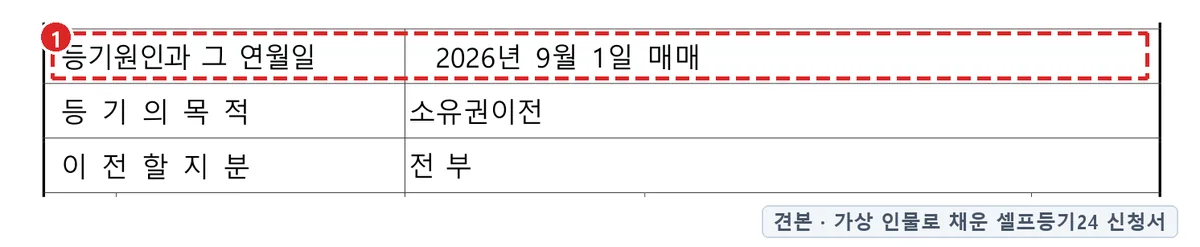
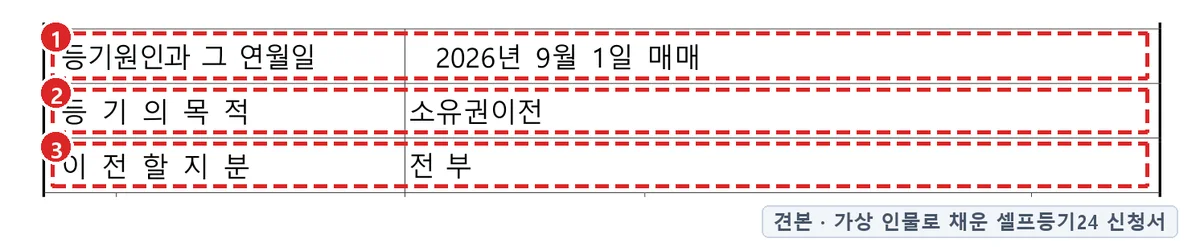
feat: 신청서 가이드 — 1번 이미지를 서식 제목부터 보이게, 등기원인·목적·지분 3단계를 한 장(번호 1~3)으로 합쳐 11→9단계

Changed region(s): [[0.0308, 0.5101, 0.9558, 0.7085], [0.0308, 0.3117, 0.9558, 0.4818], [0.0308, 0.7368, 0.9558, 0.7652]]

diff --git a/roadmap.html b/roadmap.html
@@ -2704,43 +2704,39 @@ const GUIDES = {
       ["거래신고관리번호 · 거래가액","부동산거래계약신고필증에 적힌 번호와 금액입니다."]],
      tip:"셀프등기24는 등기부를 읽어 ①~③을 자동으로 채웁니다. 인쇄한 뒤 등기부와 한 번 더 대조해 주세요.",
      warn:"등기부와 건축물대장의 표시(면적 등)가 다르면 먼저 부동산표시변경등기를 해야 합니다."},
-    {text:"2. 등기원인과 그 연월일", img:"app_g2.webp", pts:[
-      ["「○년 ○월 ○일 매매」","매매계약서에 적힌 계약일을 씁니다."]],
-     warn:"잔금일이 아니라 <b>계약일</b>입니다. 가장 흔히 틀리는 칸입니다.",
-     tip:"서류 작성 화면에 넣은 계약일이 그대로 들어갑니다."},
-    {text:"3. 등기의 목적", img:"app_g3.webp", pts:[
-      ["「소유권이전」","매도인 1명이 매수인 1명(또는 2명)에게 파는 경우입니다."]],
-     tip:"매도인이 2명이면 「공유자전원지분전부이전」, 매도인·매수인이 모두 2명이면 신청서가 2건으로 나뉘고 문구도 달라집니다. 셀프등기24가 구성에 맞춰 자동으로 넣습니다."},
-    {text:"4. 이전할 지분", img:"app_g4.webp", pts:[
-      ["「전 부」","소유권 전부를 넘기는 매매는 「전 부」로 들어갑니다."]],
-     tip:"매도인·매수인이 모두 2명이면 신청서마다 그 매수인 몫의 지분(예: 2분의 1)이 들어갑니다."},
-    {text:"5. 등기의무자(매도인) · 등기권리자(매수인)", img:"app_g5.webp", pts:[
+    {text:"2. 등기원인 · 등기의 목적 · 이전할 지분", img:"app_g2.webp", pts:[
+      ["등기원인과 그 연월일 — 「○년 ○월 ○일 매매」","매매계약서에 적힌 <b>계약일</b>을 씁니다. 잔금일이 아닙니다."],
+      ["등기의 목적 — 「소유권이전」","매도인 1명이 매수인 1명(또는 2명)에게 파는 경우입니다."],
+      ["이전할 지분 — 「전 부」","소유권 전부를 넘기는 매매는 「전 부」로 들어갑니다."]],
+     warn:"등기원인 날짜는 잔금일이 아니라 <b>계약일</b>입니다. 가장 흔히 틀리는 칸입니다.",
+     tip:"세 칸 모두 서류 작성 화면에 넣은 값으로 자동으로 들어갑니다. 매도인이 2명이면 등기의 목적이 「공유자전원지분전부이전」, 매도인·매수인이 모두 2명이면 신청서가 2건으로 나뉘고 지분도 매수인 몫(예: 2분의 1)으로 들어갑니다."},
+    {text:"3. 등기의무자(매도인) · 등기권리자(매수인)", img:"app_g5.webp", pts:[
       ["등기의무자(매도인)","성명과 주소입니다. 성명은 등기부 갑구의 현재 소유자와 같아야 하고, 주소는 매도인 주민등록초본상 현재 주소를 씁니다."],
       ["등기권리자(매수인)","성명·주민등록번호·주소입니다. 매수인 주민등록표등(초)본과 같게 적습니다."],
       ["매도인 주민등록번호","셀프등기24 서류에는 비어 있습니다. 잔금일에 매도인 서류를 보고 손으로 적습니다."]],
      warn:"등기부의 매도인 주소가 지금 주소와 다르면, 초본에 주소 변동 이력이 끊김 없이 이어져 있어야 합니다. 초본은 <b>주소 변동 이력 전체</b>가 나오게 발급하세요."},
-    {text:"6. 시가표준액 · 국민주택채권", img:"app_g6.webp", pts:[
+    {text:"4. 시가표준액 · 국민주택채권", img:"app_g6.webp", pts:[
       ["시가표준액 · 채권 매입금액","취득세 납부서에 적힌 시가표준액과, 은행에서 산 국민주택채권 매입금액입니다."],
       ["국민주택채권 매입총액","위 매입금액의 합계입니다."],
       ["국민주택채권 발행번호","채권을 살 때 은행에서 받은 번호입니다."]],
      tip:"로드맵 2단계에서 금액과 번호를 저장하면 자동으로 들어갑니다."},
-    {text:"7. 취득세 · 지방교육세 · 농어촌특별세", img:"app_g7.webp", pts:[
+    {text:"5. 취득세 · 지방교육세 · 농어촌특별세", img:"app_g7.webp", pts:[
       ["세목별 금액","취득세 영수필확인서에 적힌 금액입니다. 농어촌특별세는 낼 금액이 없으면 비워 둡니다."],
       ["세액 합계","세 금액을 더한 값입니다."]],
      tip:"로드맵 2단계에서 저장하면 자동으로 들어갑니다. 취득세는 등기 접수 전까지 납부를 마쳐야 합니다."},
-    {text:"8. 등기신청수수료", img:"app_g8.webp", pts:[
+    {text:"6. 등기신청수수료", img:"app_g8.webp", pts:[
       ["금액","서면으로 내는 소유권이전은 부동산 1개당 18,000원입니다."],
       ["납부번호","인터넷등기소에서 수수료를 낼 때 받은 납부번호입니다."],
       ["일괄납부","여러 건을 한꺼번에 낸 경우에만 씁니다. 보통은 비워 둡니다."]],
      tip:"로드맵 2단계에서 저장하면 자동으로 들어갑니다. 등기신청수수료 영수필확인서는 신청서에 붙입니다."},
-    {text:"9. 등기의무자의 등기필정보", img:"app_g9.webp", pts:[
+    {text:"7. 등기의무자의 등기필정보", img:"app_g9.webp", pts:[
       ["부동산고유번호","등기부 맨 위에 있는 번호입니다. 자동으로 들어갑니다."],
       ["성명 · 일련번호 · 비밀번호","매도인이 가진 「등기필정보 및 등기완료통지서」를 보고 잔금일에 손으로 적습니다."]],
      warn:"매도인이 예전 「등기필증」(종이 권리증)을 가지고 있으면 이 칸을 비우고 등기필증 원본을 함께 냅니다."},
-    {text:"10. 첨부서면", img:"app_g10.webp", pts:[
+    {text:"8. 첨부서면", img:"app_g10.webp", pts:[
       ["서류별 통수","함께 내는 서류마다 줄 끝 「통」 앞에 장수를 적습니다."]],
      tip:"무엇을 내는지는 로드맵 1단계 서류 준비 목록과 같습니다. 접수 전에 목록과 한 장씩 대조하세요."},
-    {text:"11. 신청인 · 제출처", img:"app_g11.webp", pts:[
+    {text:"9. 신청인 · 제출처", img:"app_g11.webp", pts:[
       ["작성일","등기소에 내는 날짜를 적습니다."],
       ["신청인","매수인과 매도인 이름이 자동으로 들어갑니다. 각 줄에 전화번호를 적고, 매도인은 <b>인감도장</b>(인감증명서와 같은 도장), 매수인은 도장을 찍습니다."],
       ["제출처","관할 등기소 이름과 「귀중」이 자동으로 들어갑니다."]],
